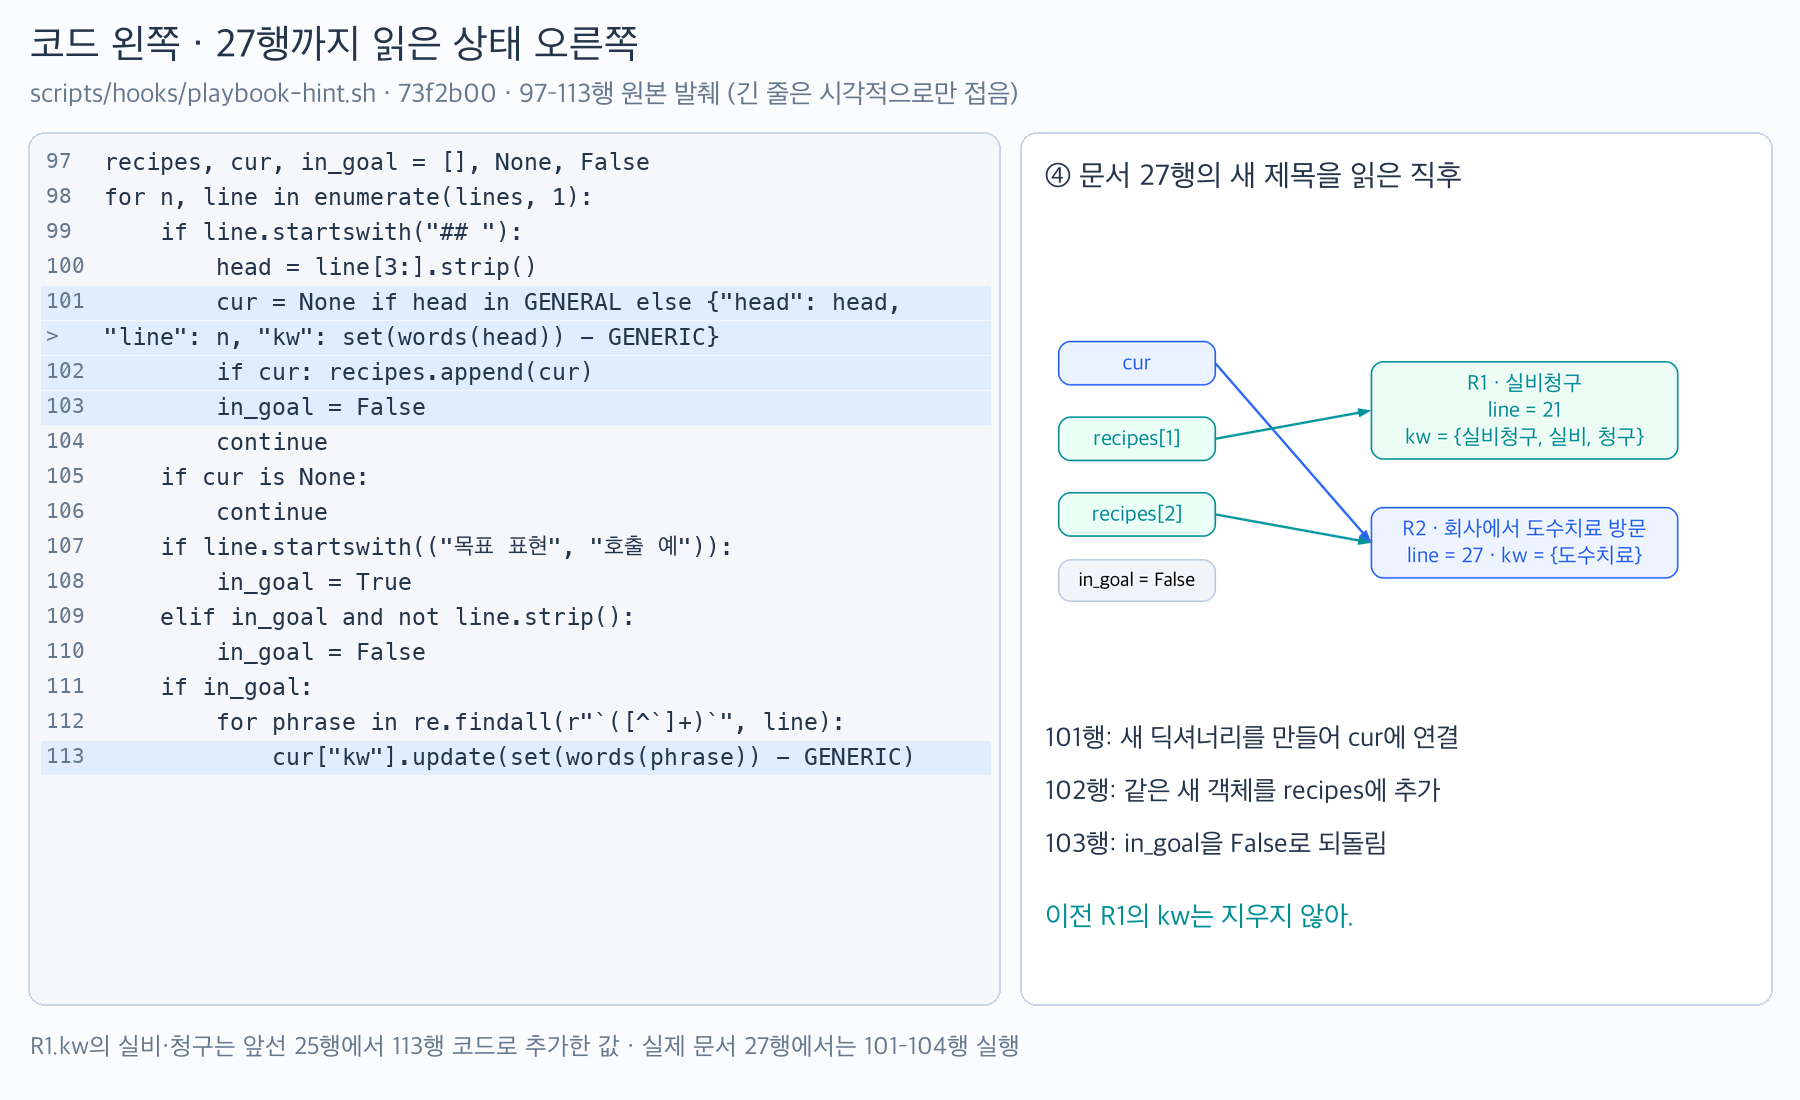
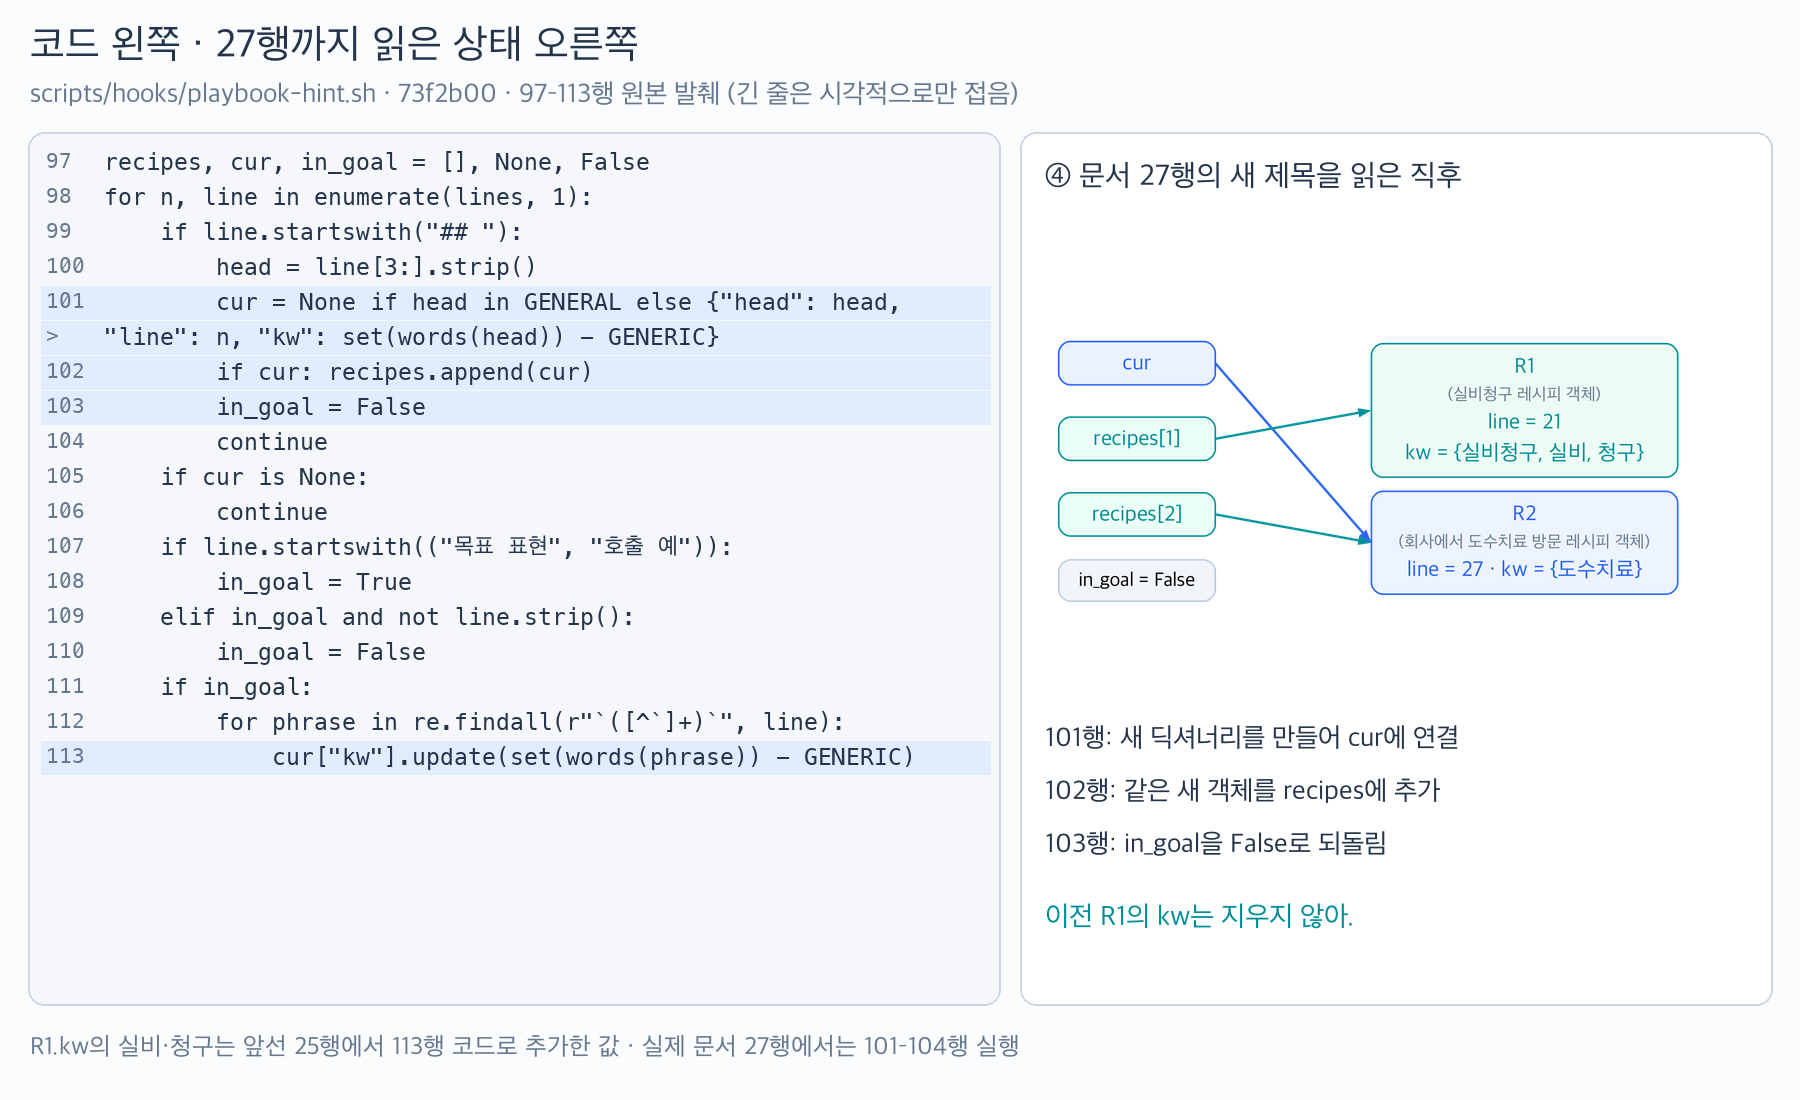
docs: explain recipe object labels directly in PR 8 diagrams

Changed region(s): [[0.7467, 0.3091, 0.9333, 0.5564]]

diff --git a/code-diff-notes/mogi-productivity/assets/2026-10-21-pr8-visuals/build_visuals.py b/code-diff-notes/mogi-productivity/assets/2026-10-21-pr8-visuals/build_visuals.py
@@ -142,8 +142,12 @@ def arrow(im, a, b, fill, dashed=False):
 
 def reference_graph(s, name):
     # Fixed positions keep equal nodes at equal places across all four scenes.
-    def label(t):
-        return json.dumps(t, ensure_ascii=False)
+    def object_label(name, meaning, *fields):
+        from html import escape
+        rows = [f'<TR><TD>{escape(name)}</TD></TR>',
+                f'<TR><TD><FONT COLOR="#687d92" POINT-SIZE="18">({escape(meaning)})</FONT></TD></TR>']
+        rows += [f'<TR><TD>{escape(field)}</TD></TR>' for field in fields]
+        return '<<TABLE BORDER="0" CELLBORDER="0" CELLSPACING="0" CELLPADDING="2">'+''.join(rows)+'</TABLE>>'
     last = s["document_line"] == 27
     r1 = s["recipes"][1]
     kw = "실비청구" if len(r1["kw"]) == 1 else "실비청구, 실비, 청구"
@@ -154,13 +158,13 @@ def reference_graph(s, name):
              'anchor2 [pos="760,320!", label="", shape=point, width=0, style=invis];',
              f'cur [pos="105,255!", label="cur", width=2.3, fillcolor="#eaf1ff", color="{BLUE}", fontcolor="{BLUE}"];',
              f'list1 [pos="105,175!", label="recipes[1]", width=2.3, fillcolor="#eafff6", color="{TEAL}", fontcolor="{TEAL}"];',
-             f'r1 [pos="515,205!", label={label("R1 · 실비청구"+chr(10)+"line = 21"+chr(10)+"kw = {"+kw+"}")}, width=4.5, fillcolor="#ecfcf5", color="{TEAL}", fontcolor="{TEAL}"];',
+             f'r1 [pos="515,205!", label={object_label("R1", "실비청구 레시피 객체", "line = 21", "kw = {"+kw+"}")}, width=4.5, fillcolor="#ecfcf5", color="{TEAL}", fontcolor="{TEAL}"];',
              f'flag [pos="105,25!", label="in_goal = {s["in_goal"]}", width=2.3, fillcolor="#f1f4f9", color="#bac9dc", fontsize=21];',
              f'list1:e -> r1:w [color="{TEAL}"];']
     if last:
         lines += [
             f'list2 [pos="105,95!", label="recipes[2]", width=2.3, fillcolor="#eafff6", color="{TEAL}", fontcolor="{TEAL}"];',
-            f'r2 [pos="515,65!", label={label("R2 · 회사에서 도수치료 방문"+chr(10)+"line = 27 · kw = {도수치료}")}, width=4.5, fillcolor="#edf3ff", color="{BLUE}", fontcolor="{BLUE}"];',
+            f'r2 [pos="515,65!", label={object_label("R2", "회사에서 도수치료 방문 레시피 객체", "line = 27 · kw = {도수치료}")}, width=4.5, fillcolor="#edf3ff", color="{BLUE}", fontcolor="{BLUE}"];',
             f'cur:e -> r2:w [color="{BLUE}"];', f'list2:e -> r2:w [color="{TEAL}"];']
     else:
         lines += [f'cur:e -> r1:w [color="{BLUE}"];']
